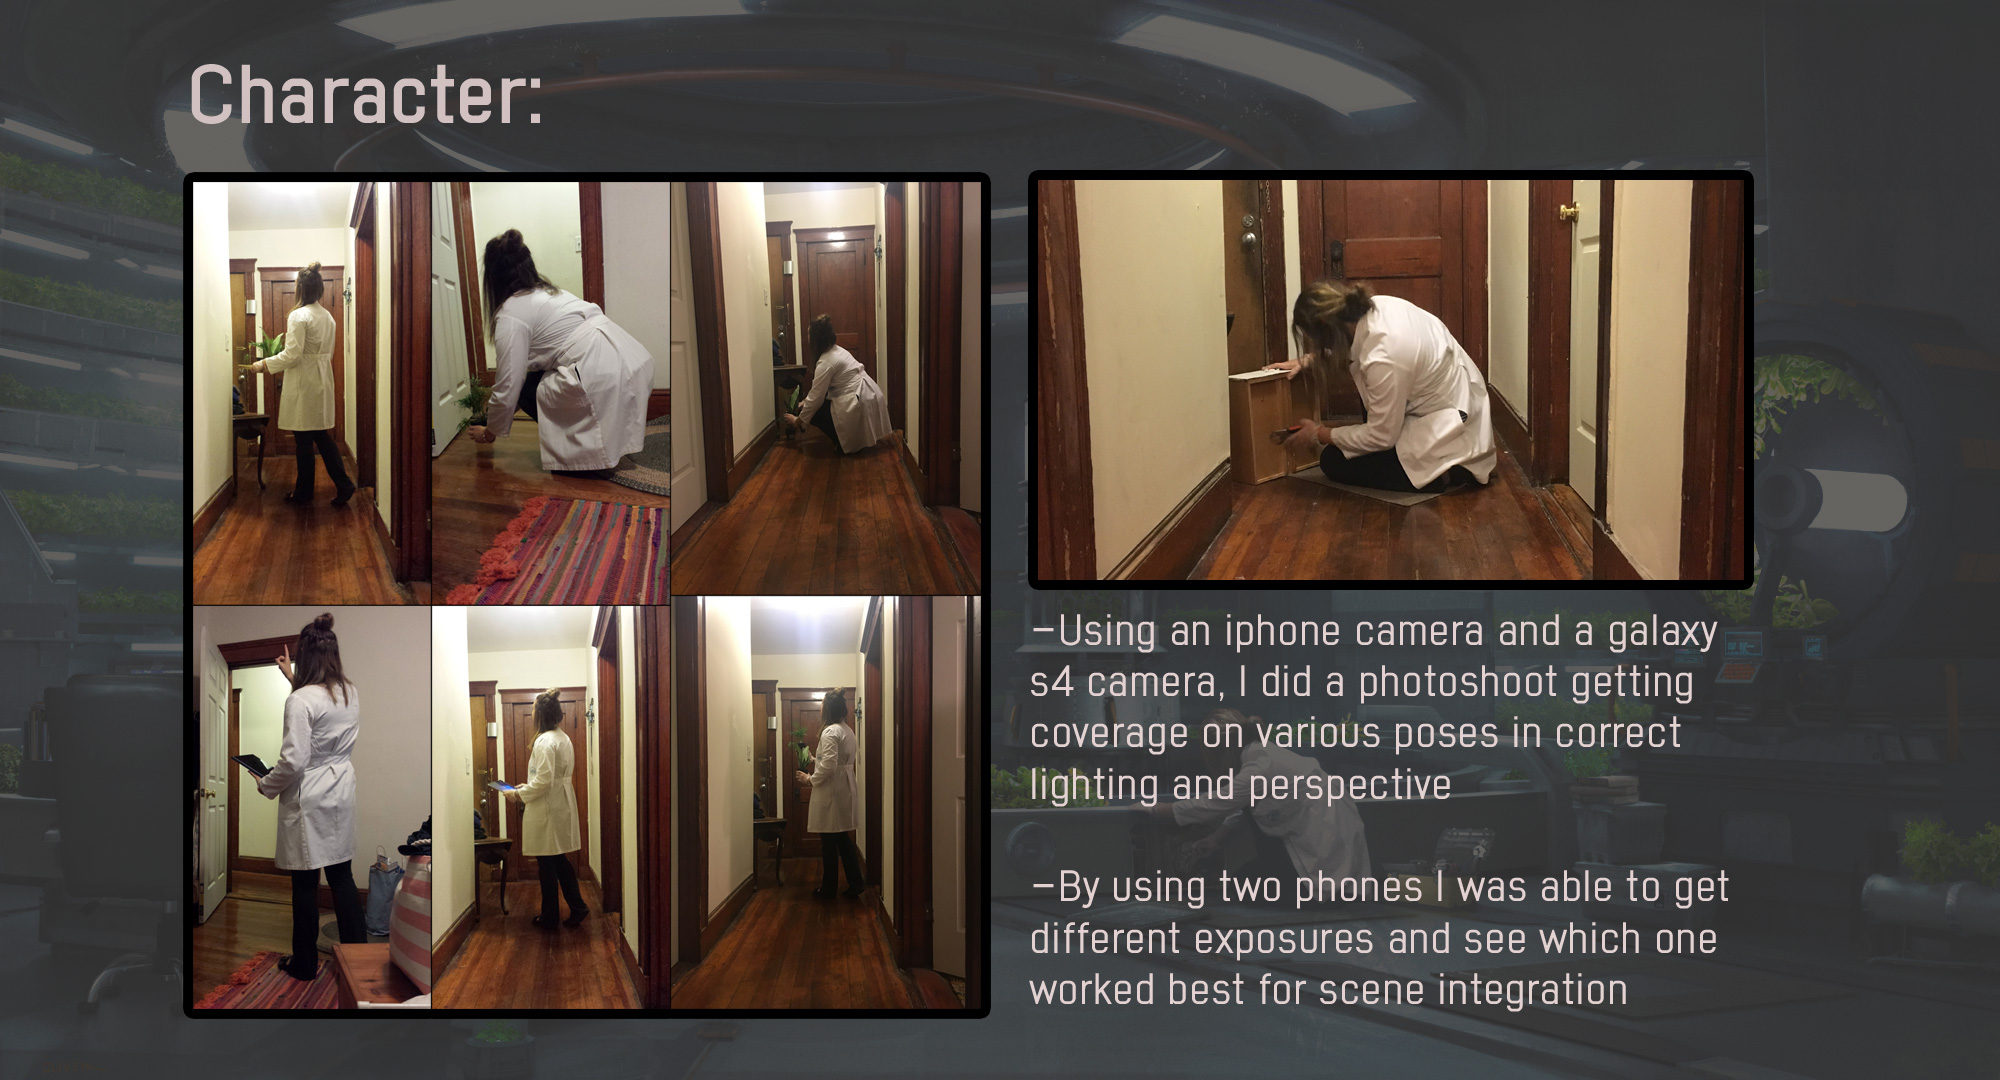
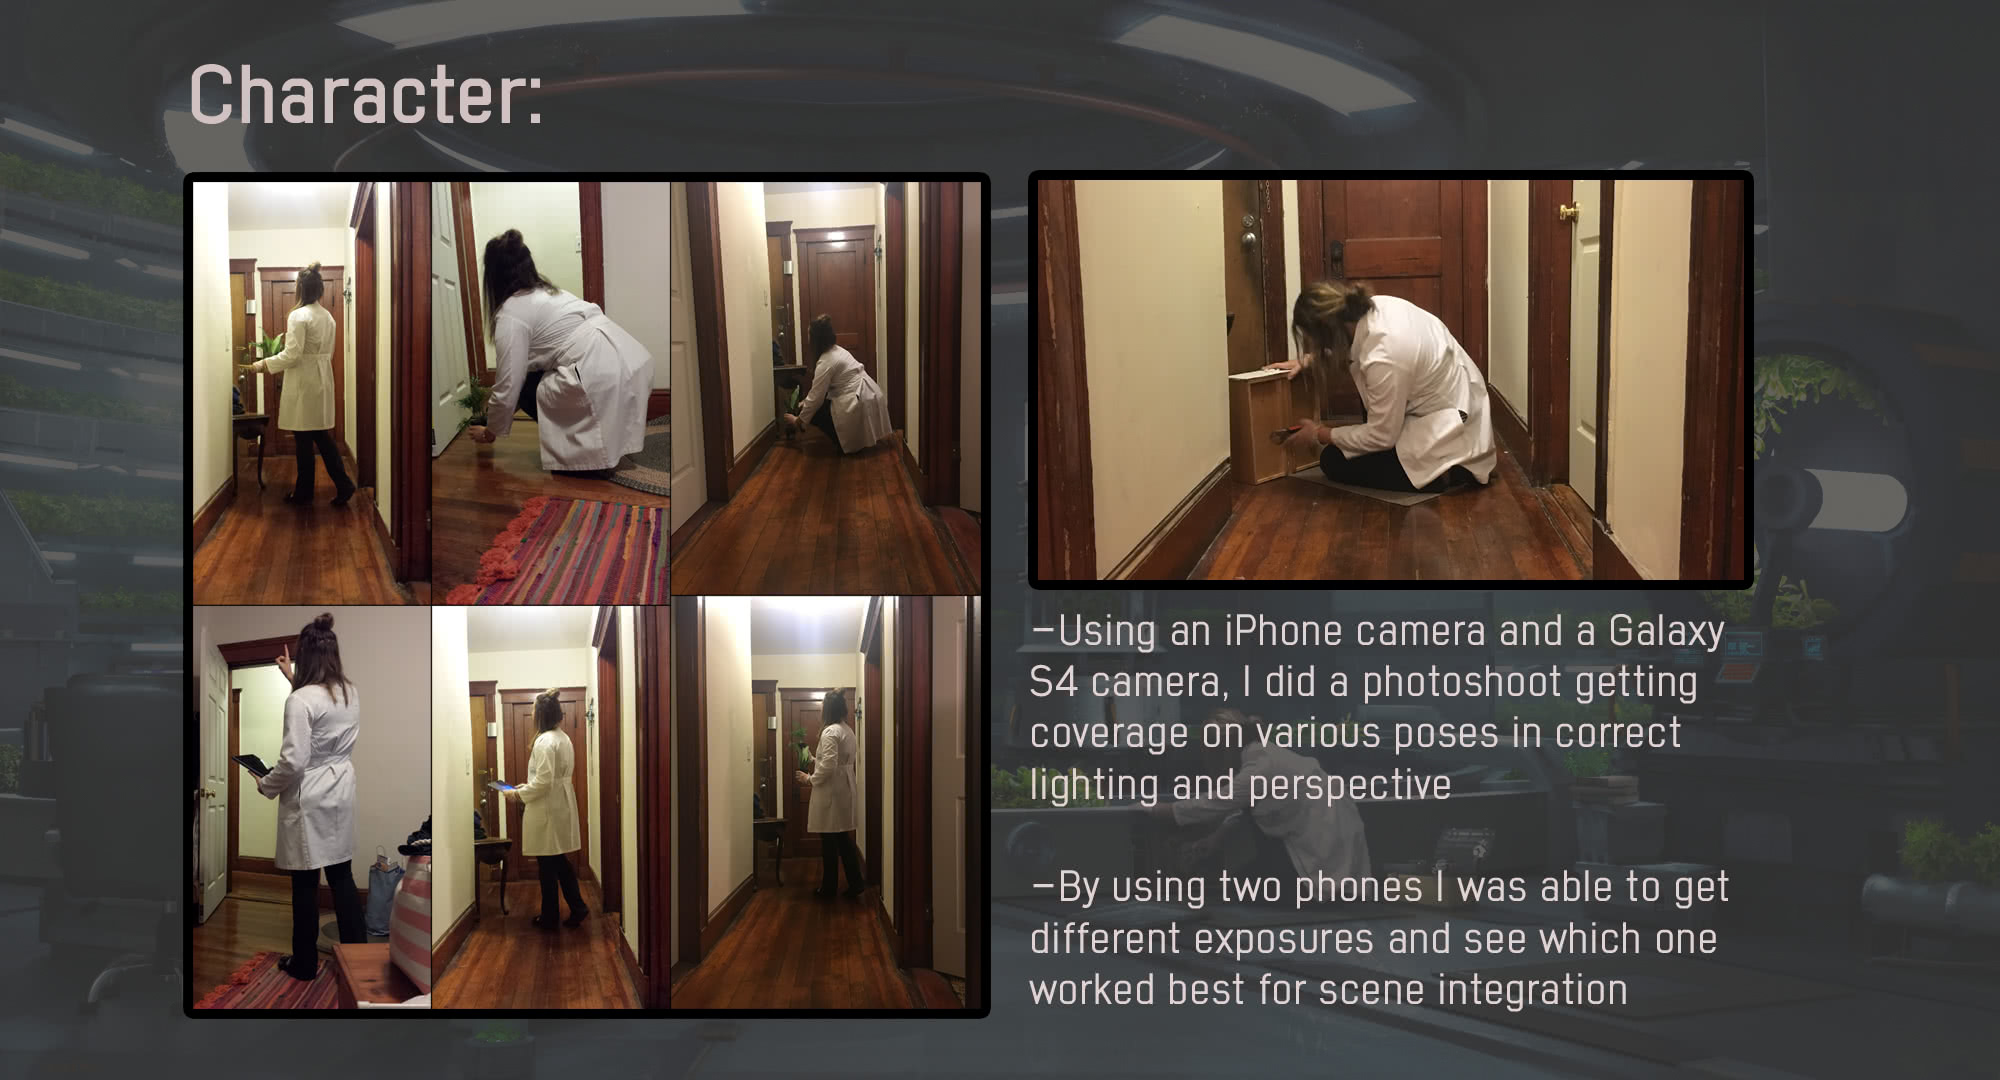
Think Vertically new JPEGs & PNGs

Changed region(s): [[0.496, 0.55, 0.868, 0.6722]]

diff --git a/src/og-portfolio/og-portfolio.html b/src/og-portfolio/og-portfolio.html
@@ -115,7 +115,7 @@
             data-carousel-slide=""
             title-of-work="Research"
             filename-id="Process 01">
-            <p>Looking at tons of photos of: hydroponic pods, labs,indoor gardens, nasa projects, modern interior design, architectural  visualisation, and vertical farming</p>
+            <p>Looking at tons of photos of: hydroponic pods, labs, indoor gardens, NASA projects, modern interior design, architectural  visualisation, and vertical farming</p>
             <p>More ref on pinterest board: <a href="https://www.pinterest.com/brandonstricker/olivers-briefs/"><code>https://www.pinterest.com/brandonstricker/olivers-briefs/</code></a></p>
           </og-portfolio__slide>
           <og-portfolio__slide
@@ -149,7 +149,7 @@
             title-of-work="Character"
             filename-id="Process 05">
             <ul>
-              <li>Using an iphone camera and a galaxy s4 camera, I did a photoshoot getting coverage on various poses in correct lighting and perspective</li>
+              <li>Using an iPhone camera and a Galaxy S4 camera, I did a photoshoot getting coverage on various poses in correct lighting and perspective</li>
               <li>By using two phones I was able to get different exposures and see which one worked best for scene integration</li>
             </ul>
           </og-portfolio__slide>
@@ -167,7 +167,7 @@
             title-of-work="Final Render"
             filename-id="Process 07">
             <ul>
-              <li>By exporting my scene as an fbx I was able to import my camera into KeyShot</li>
+              <li>By exporting my scene as an FBX I was able to import my camera into KeyShot</li>
               <li>Then by messing with the settings I was able to line up the shot to to the modo version to get the final composite render that I used as my base</li>
             </ul>
           </og-portfolio__slide>
